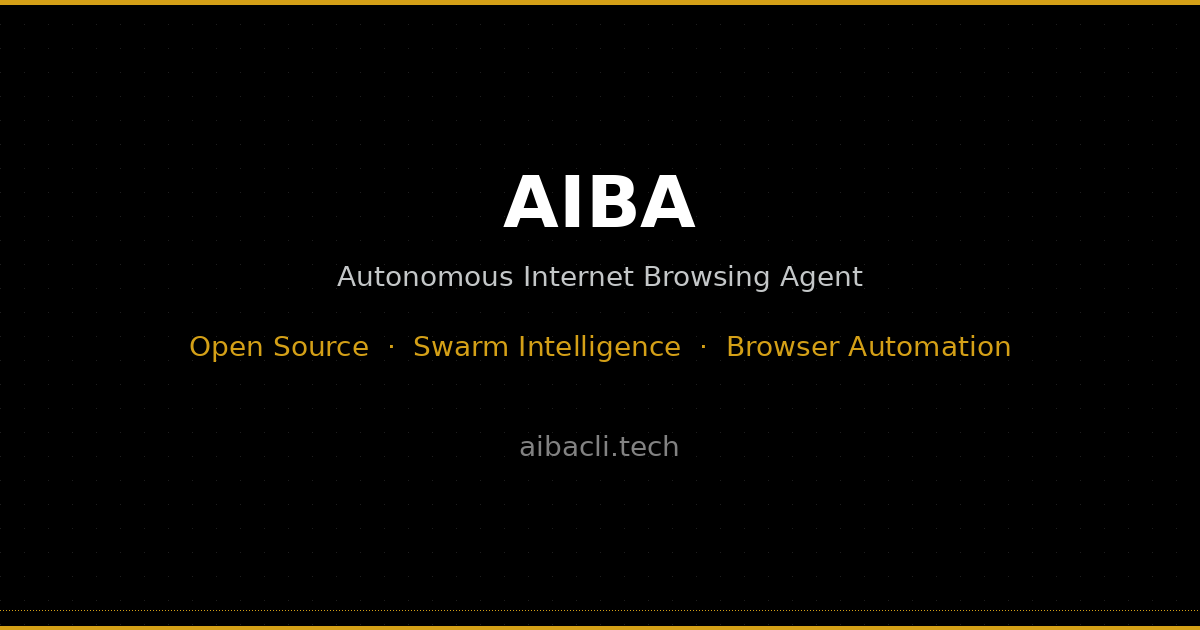
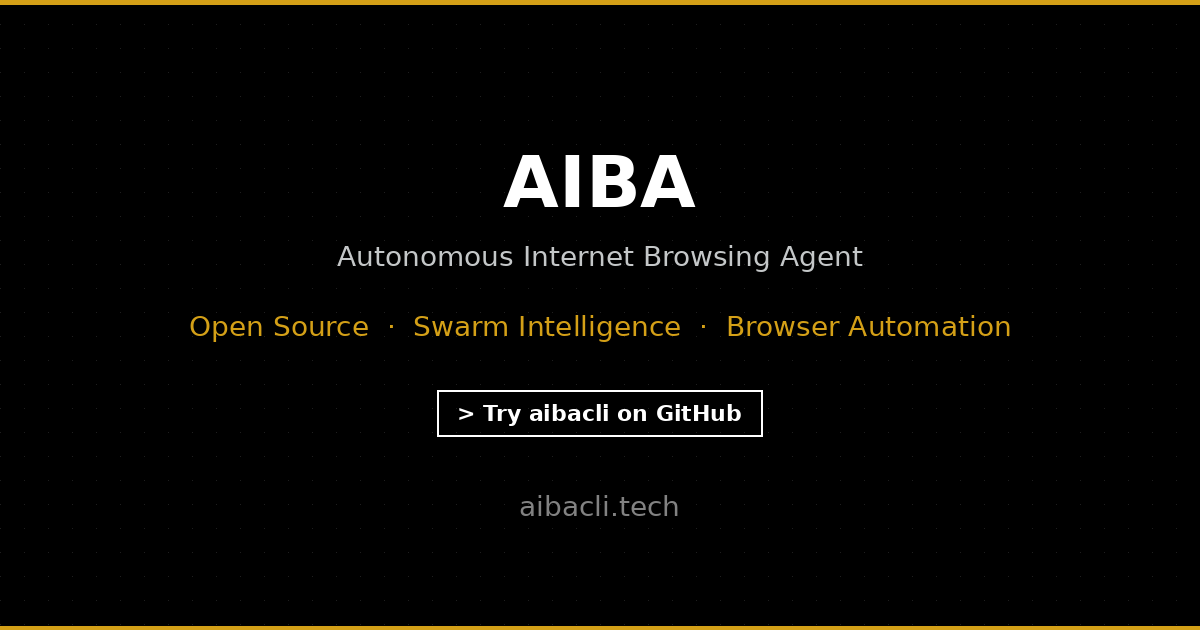
SEO optimization

diff --git a/index.html b/index.html
@@ -1,10 +1,10 @@
 <!DOCTYPE html>
 
 <html class="dark" lang="en"><head>
-<meta charset="utf-8"/>
-<meta content="width=device-width, initial-scale=1.0" name="viewport"/>
-<title>AIBA — Autonomous Internet Browsing Agent | Open Source Browser Agent &amp; Swarm Intelligence</title>
-<meta name="description" content="AIBA (aibacli) is the most advanced open-source autonomous internet browsing agent. Powered by swarm intelligence — deploy 50+ parallel sub-agents for browser automation, web research, data synthesis, and scheduled cron beats. Built with Playwright and LLM technology.">
+<meta charset="utf-8">
+<meta content="width=device-width, initial-scale=1.0" name="viewport">
+<title>AIBA — Autonomous Internet Browsing Agent</title>
+<meta name="description" content="AIBA (aibacli) is the most advanced open-source autonomous internet browsing agent. Powered by swarm intelligence — deploy 50+ parallel sub-agents for browser automation, web research, and data synthesis.">
 <meta name="keywords" content="AIBA, aibacli, aibacli.tech, browser agent, autonomous browsing agent, AI browser agent, swarm intelligence, open source agent, internet browsing agent, AI agent, web automation, browser automation, Playwright agent, AI research agent, autonomous web agent, LLM browser agent">
 <meta name="author" content="Hamza Mughal">
 <meta name="robots" content="index, follow, max-image-preview:large, max-snippet:-1, max-video-preview:-1">
@@ -25,8 +25,8 @@
 <meta property="og:locale" content="en_US">
 <meta property="og:type" content="website">
 <meta property="og:url" content="https://aibacli.tech/">
-<meta property="og:title" content="AIBA — Autonomous Internet Browsing Agent | Open Source Browser Agent">
-<meta property="og:description" content="AIBA (aibacli) is the most advanced open-source autonomous internet browsing agent. Powered by swarm intelligence — deploy 50+ parallel sub-agents for browser automation and deep research.">
+<meta property="og:title" content="AIBA — Autonomous Internet Browsing Agent">
+<meta property="og:description" content="AIBA (aibacli) is the most advanced open-source autonomous internet browsing agent with swarm intelligence — deploy 50+ parallel sub-agents for browser automation.">
 <meta property="og:image" content="https://aibacli.tech/og-image.png">
 <meta property="og:image:width" content="1200">
 <meta property="og:image:height" content="630">
@@ -34,7 +34,7 @@
 <meta property="og:site_name" content="AIBA">
 <meta name="twitter:card" content="summary_large_image">
 <meta name="twitter:site" content="@aibacli">
-<meta name="twitter:title" content="AIBA — Autonomous Internet Browsing Agent | Open Source Browser Agent">
+<meta name="twitter:title" content="AIBA — Autonomous Internet Browsing Agent">
 <meta name="twitter:description" content="The most advanced open-source autonomous internet browsing agent. Swarm intelligence with 50+ parallel sub-agents for browser automation.">
 <meta name="twitter:image" content="https://aibacli.tech/og-image.png">
 <meta name="twitter:image:alt" content="AIBA — Autonomous Internet Browsing Agent">
@@ -685,9 +685,9 @@
 </div>
 </div>
 </nav>
-<main class="flex-grow z-10 relative mt-16 md:mt-16">
+<main class="flex-grow z-10 relative mt-16 md:mt-16" role="main">
 <!-- Hero Section -->
-<section class="relative w-full min-h-screen flex flex-col items-center justify-center border-b border-border-default py-24" id="hero">
+<section class="relative w-full min-h-screen flex flex-col items-center justify-center border-b border-border-default py-24" id="hero" aria-label="Hero">
 <div class="relative z-10 max-w-4xl px-4 sm:px-8 md:px-margin-lg text-center flex flex-col items-center gap-10">
 <!-- Logo (swaps per theme) -->
 <div class="w-36 h-36 flex items-center justify-center border border-border-default relative overflow-hidden">
@@ -714,18 +714,19 @@
 <div class="font-code-sm text-code-sm text-primary mt-20 opacity-80">
                 &gt; v0.1.0 — Autonomous Internet Browsing Agent
             </div>
+</div>
 </section>
 <!-- Swarm Intelligence Logic Section -->
-<section class="relative w-full border-b border-border-default bg-background" id="swarm">
+<section class="relative w-full border-b border-border-default bg-background" id="swarm" aria-label="Swarm Intelligence Architecture">
 
 <!-- Heading in normal flow ABOVE animation -->
 <div class="max-w-7xl mx-auto px-4 sm:px-8 md:px-margin-lg pt-8 md:pt-12 pb-4 md:pb-6 text-center">
-<div class="font-label-mono text-label-mono text-on-surface-variant uppercase tracking-widest border border-border-default w-max mx-auto px-3 py-1.5 mb-4">
+<h2 class="font-label-mono text-label-mono text-on-surface-variant uppercase tracking-widest border border-border-default w-max mx-auto px-3 py-1.5 mb-4">
 [ SWARM_INTELLIGENCE ]
-</div>
-<h2 class="font-headline-lg text-[32px] sm:text-[48px] md:text-[80px] text-primary tracking-[0.2em]">
-SWARM INTELLIGENCE
 </h2>
+<h3 class="font-headline-lg text-[32px] sm:text-[48px] md:text-[80px] text-primary tracking-[0.2em]">
+SWARM INTELLIGENCE
+</h3>
 <p class="sr-only">AIBA's swarm intelligence browser agent architecture: one orchestrator decomposes goals into parallel research tasks for up to 50 sub-agents, each running autonomous browsing and verification.</p>
 </div>
 
@@ -1070,7 +1071,7 @@ window.addEventListener('resize', () => {
 
 </section>
 <!-- Capabilities Grid -->
-<section class="relative w-full py-24 border-b border-border-default" id="capabilities">
+<section class="relative w-full py-24 border-b border-border-default" id="capabilities" aria-label="Core Capabilities">
 <div class="max-w-7xl mx-auto px-4 sm:px-8 md:px-margin-lg">
 <div class="font-label-mono text-label-mono text-on-surface-variant uppercase tracking-widest border border-border-default w-max px-2 py-1 mb-12">
                     [ CORE_CAPABILITIES ]
@@ -1140,7 +1141,7 @@ window.addEventListener('resize', () => {
 </div>
 </section>
 <!-- Beats Section -->
-<section class="relative w-full py-32 bg-background border-b border-border-default" id="beats">
+<section class="relative w-full py-32 bg-background border-b border-border-default" id="beats" aria-label="Scheduled Beats">
 <div class="absolute inset-0 pointer-events-none bg-dot-grid opacity-60 z-0"></div>
 <div class="max-w-7xl mx-auto px-4 sm:px-8 md:px-margin-lg relative z-10">
 <div class="font-label-mono text-label-mono text-on-surface-variant uppercase tracking-widest border border-border-default w-max px-3 py-1.5 mb-16">
@@ -1199,7 +1200,7 @@ window.addEventListener('resize', () => {
 </div>
 </section>
 <!-- OSS / Production Grade Section -->
-<section class="relative w-full py-32 bg-background border-b border-border-default" id="oss">
+<section class="relative w-full py-32 bg-background border-b border-border-default" id="oss" aria-label="Open Source">
 <div class="absolute inset-0 pointer-events-none bg-dot-grid opacity-60 z-0"></div>
 <div class="max-w-7xl mx-auto px-4 sm:px-8 md:px-margin-lg relative z-10">
 <div class="font-label-mono text-label-mono text-on-surface-variant uppercase tracking-widest border border-border-default w-max px-3 py-1.5 mb-16">
@@ -1269,7 +1270,7 @@ window.addEventListener('resize', () => {
 </div>
 </section>
 <!-- Terminal Demo Section -->
-<section class="relative w-full py-32 bg-background border-b border-border-default" id="demo">
+<section class="relative w-full py-32 bg-background border-b border-border-default" id="demo" aria-label="Terminal Demo">
 <div class="absolute inset-0 pointer-events-none bg-dot-grid opacity-60 z-0"></div>
 <div class="max-w-5xl mx-auto px-4 sm:px-8 md:px-margin-lg relative z-10 flex flex-col items-center">
 <!-- Levitating shadow beneath terminal -->